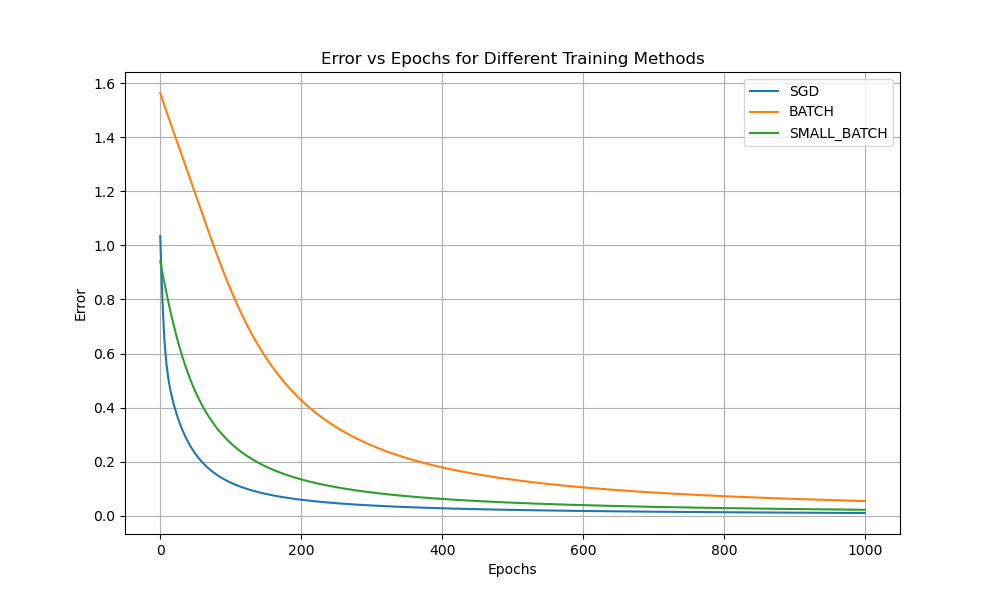
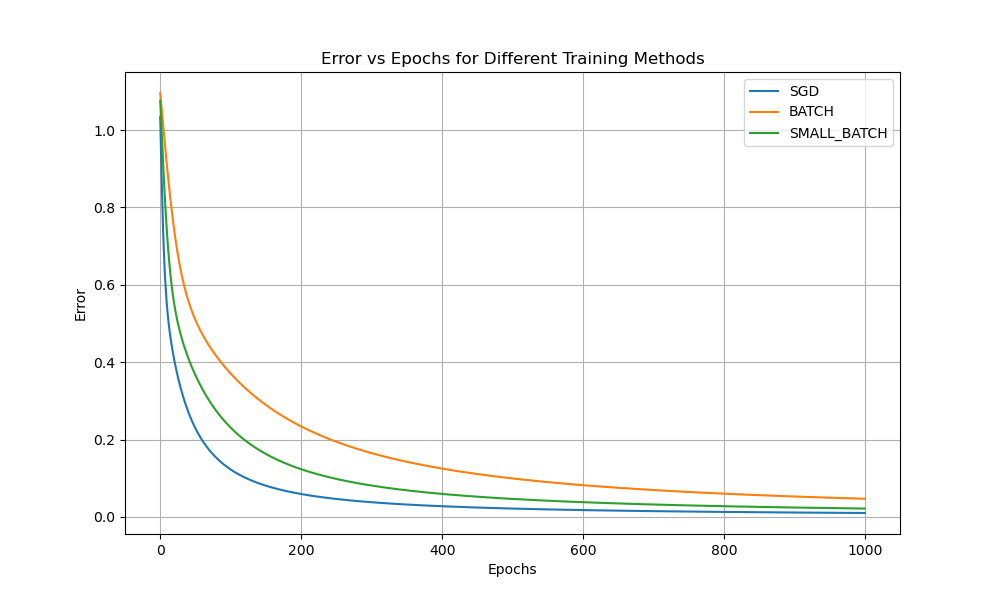
fix: modify train.py to make sure that the initial weights remain the same for each training method

diff --git a/deep-learning-hw/src/train.py b/deep-learning-hw/src/train.py
@@ -22,6 +22,7 @@ def main():
     
     # 随机权重初始化
     rg = np.random.default_rng(0)
+    initial_W = 2 * rg.random((1, 3)) - 1
     
     # 训练方法列表
     methods = ["sgd", "batch", "small_batch"]
@@ -33,9 +34,9 @@ def main():
     
     for method in methods:
         print(f"Training with {method.upper()}...")
-        
-        # 重新初始化权重
-        W = 2 * rg.random((1, 3)) - 1
+
+        W = initial_W.copy()
+        print(f"Initial weights for {method}: {W}")
         
         # 存储每轮的误差
         errors = []

diff --git a/deep-learning-hw/documentation/result.md b/deep-learning-hw/documentation/result.md
@@ -29,6 +29,8 @@ input: [1 1 1] -> output: 0.9507 (desired: 1)
 ```
 ## 练习2结果记录
 ![error_vs_epochs.png](../assets/error_vs_epochs.png)
+观察上图发现，SGD方法初始误差介于批量与小批量之间，但收敛速度最快；小批量方法
+收敛速度介于批量与SGD之间；大批量算法初始误差最大，收敛速度也最慢。
 
 ## 练习3结果记录
 
